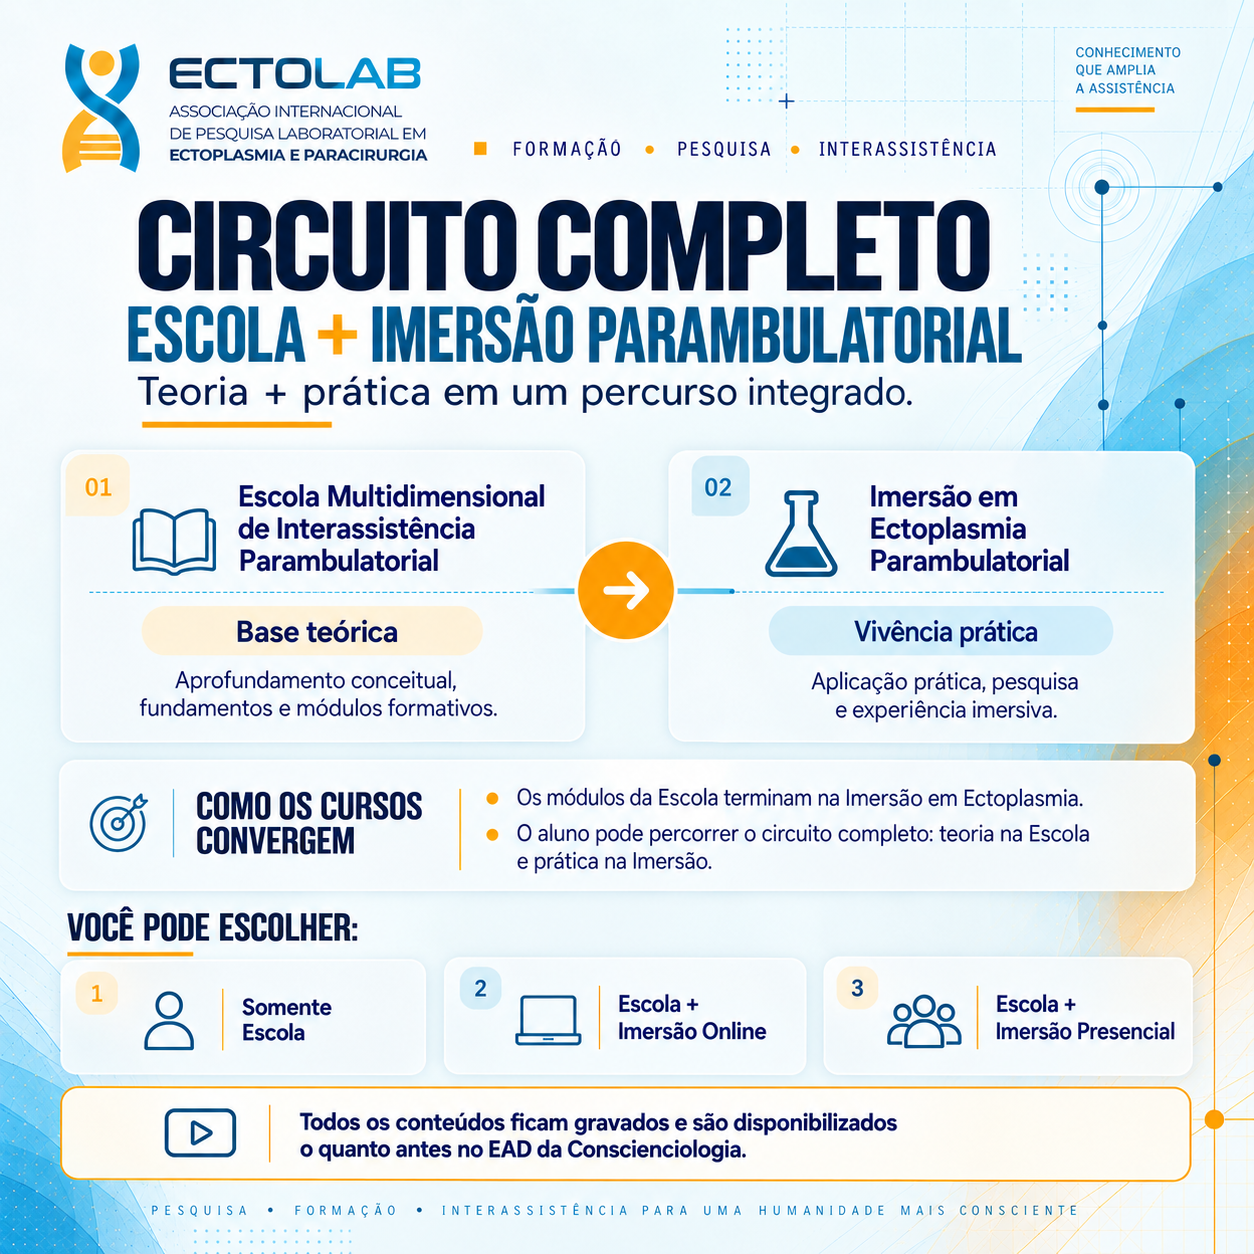
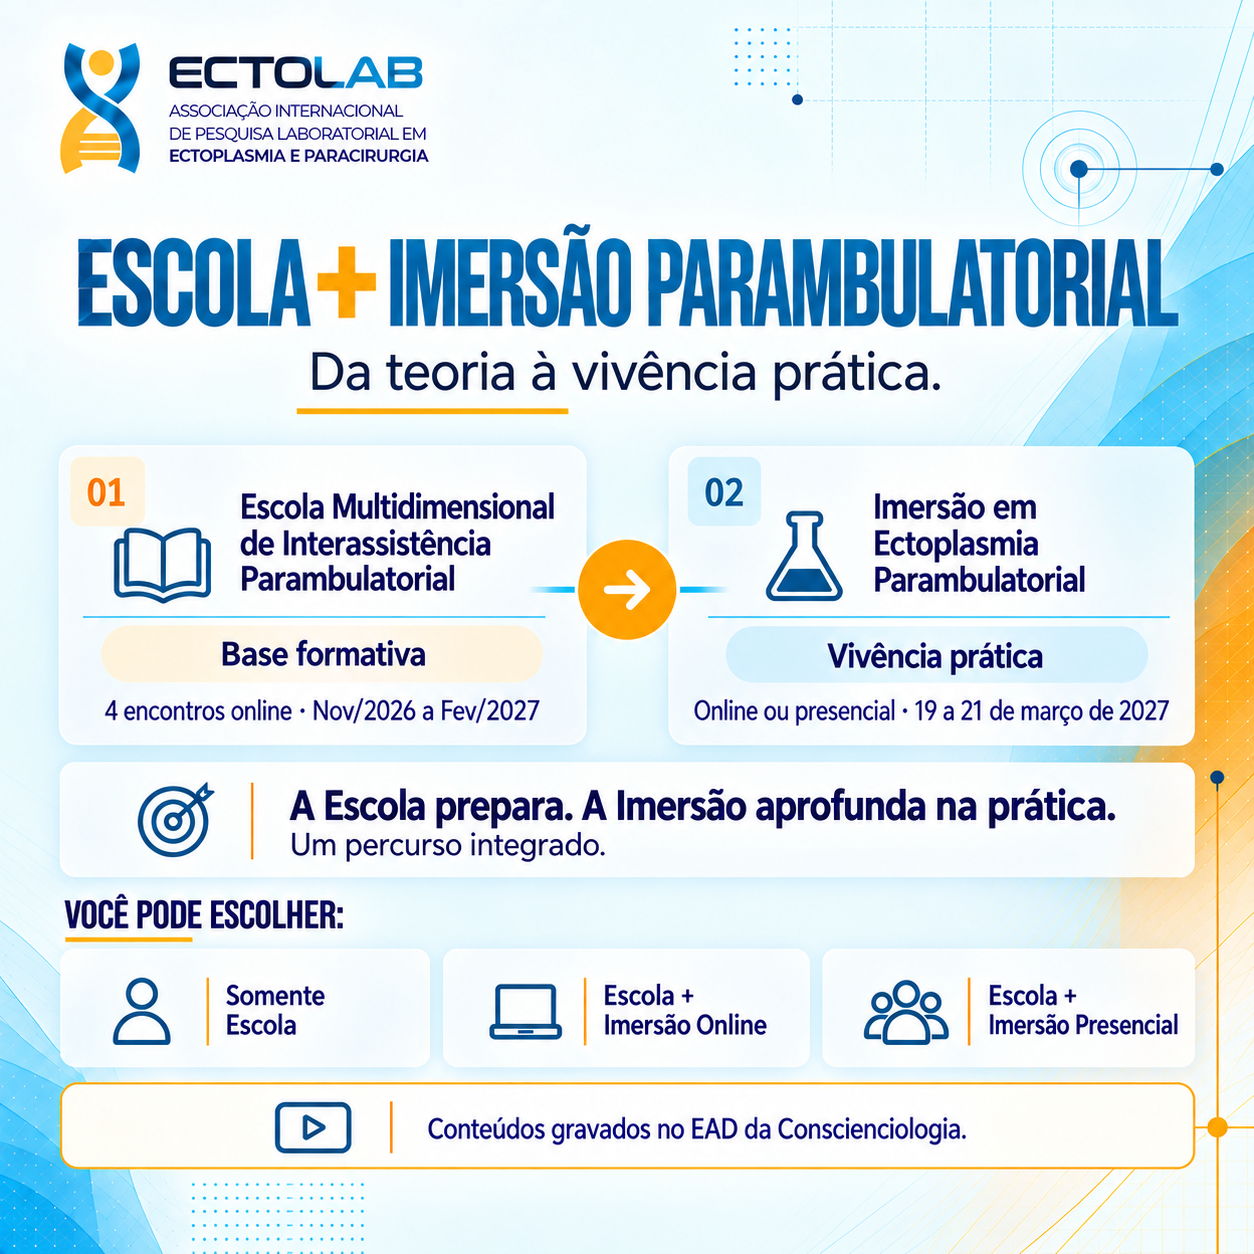
feat(escola): atualiza capa do hero e preserva arte do circuito
- Substitui assets/escola-card.png pela nova arte de capa da Escola
- Mantem assets/escola-circuito.png e exibe em sessao O que e como apoio visual do percurso Escola + Imersao
- Adiciona estilo responsivo para a arte secundaria

diff --git a/pages/curso-escola.html b/pages/curso-escola.html
@@ -101,6 +101,8 @@ a{color:inherit}
 .esc-video__frame{margin:0;background:var(--ink);border:1px solid var(--teal-soft2);border-radius:var(--r-lg);padding:8px;box-shadow:0 22px 48px -24px rgba(8,34,43,0.5)}
 .esc-video__ratio{position:relative;aspect-ratio:16 / 9;overflow:hidden;border-radius:var(--r-md);background:var(--ink-3)}
 .esc-video__ratio iframe{position:absolute;inset:0;width:100%;height:100%;border:0}
+.esc-circuito{margin:40px auto 0;max-width:980px;border:1px solid var(--line);border-radius:var(--r-lg);overflow:hidden;background:var(--white);box-shadow:0 18px 42px -28px rgba(8,34,43,0.35)}
+.esc-circuito img{width:100%;height:auto}
 @media (max-width:1000px){.esc-obj{grid-template-columns:1fr}.esc-datas{grid-template-columns:repeat(2,1fr)}}
 @media (max-width:900px){.esc-hero__grid,.esc-def,.esc-precos,.esc-video{grid-template-columns:1fr}.esc-jornada{grid-template-columns:1fr}.esc-seta{flex-direction:row;padding:4px 0}.esc-seta__ico{transform:rotate(90deg)}.esc-prof{grid-template-columns:1fr}.esc-video__intro{max-width:none}}
 @media (max-width:620px){.esc-datas,.esc-lote,.esc-lotes{grid-template-columns:1fr}}
@@ -192,6 +194,9 @@ a{color:inherit}
           </div>
         </div>
       </div>
+      <figure class="esc-circuito">
+        <img src="../assets/escola-circuito.png" alt="Circuito completo Escola + Imersão Parambulatorial: teoria na Escola e prática na Imersão." loading="lazy" />
+      </figure>
     </div>
   </section>
 
